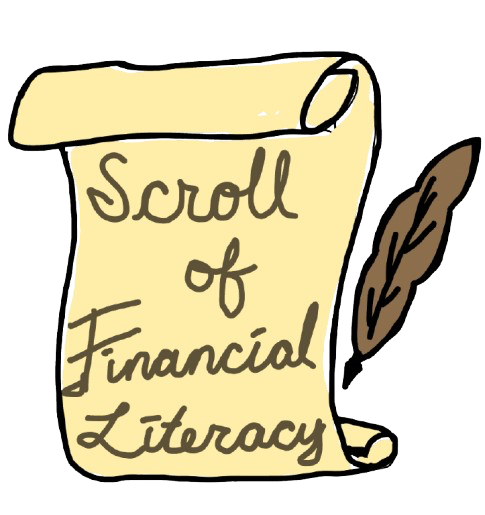
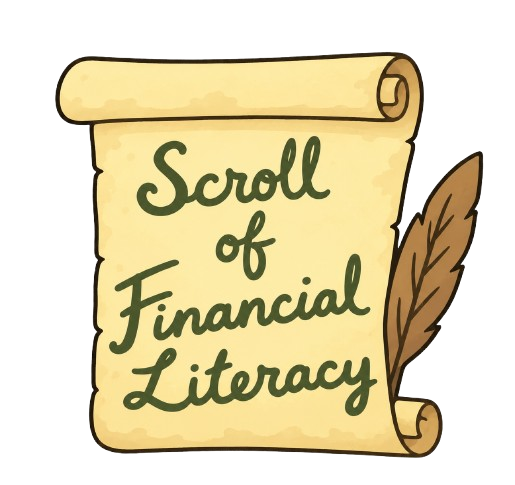
added more buttons and opening modals

diff --git a/src/LandingPage.tsx b/src/LandingPage.tsx
@@ -11,6 +11,18 @@ function LandingPage() {
      const navigate = useNavigate();
      const [isScrollHovered, setIsScrollHovered] = useState(false);
      const [isScrollOpen, setIsScrollOpen] = useState(false);
+     const [isButtonOneOpen, setIsButtonOneOpen] = useState(false);
+     const [isButtonTwoOpen, setIsButtonTwoOpen] = useState(false);
+     const [modalOrigin, setModalOrigin] = useState({ x: '50%', y: '50%' });
+
+     const openFromButton = (event: React.MouseEvent<HTMLButtonElement>, openModal: () => void) => {
+          const rect = event.currentTarget.getBoundingClientRect();
+          const x = ((rect.left + rect.width / 2) / window.innerWidth) * 100;
+          const y = ((rect.top + rect.height / 2) / window.innerHeight) * 100;
+          setModalOrigin({ x: `${x}%`, y: `${y}%` });
+          openModal();
+     };
+
      return(
           <>
                {/* <div className="nav-bar">
@@ -47,7 +59,7 @@ function LandingPage() {
 
                          <button
                               type="button"
-                              onClick={() => setIsScrollOpen(true)}
+                              onClick={(event) => openFromButton(event, () => setIsScrollOpen(true))}
                               onMouseEnter={() => setIsScrollHovered(true)}
                               onMouseLeave={() => setIsScrollHovered(false)}
                          >
@@ -68,6 +80,10 @@ function LandingPage() {
                          >
                               <section
                                    className="scroll-modal"
+                                   style={{
+                                        ['--modal-origin-x' as any]: modalOrigin.x,
+                                        ['--modal-origin-y' as any]: modalOrigin.y,
+                                   }}
                                    role="dialog"
                                    aria-modal="true"
                                    aria-labelledby="scroll-modal-title"
@@ -83,6 +99,77 @@ function LandingPage() {
                                    </button>
                                    <h2 id="scroll-modal-title">Financial Literacy</h2>
                                    <p>Build the knowledge to make confident money decisions.</p>
+                              </section>
+                         </div>
+                    )}
+
+                    <div className="button-stack">
+                         <button className="big-btn" onClick={(event) => openFromButton(event, () => setIsButtonOneOpen(true))}>
+                              Button One
+                         </button>
+                         <button className="big-btn" onClick={(event) => openFromButton(event, () => setIsButtonTwoOpen(true))}>
+                              Button Two
+                         </button>
+                    </div>
+
+                    {isButtonOneOpen && (
+                         <div
+                              className="scroll-modal-backdrop"
+                              role="presentation"
+                              onClick={() => setIsButtonOneOpen(false)}
+                         >
+                              <section
+                                   className="scroll-modal"
+                                   style={{
+                                        ['--modal-origin-x' as any]: modalOrigin.x,
+                                        ['--modal-origin-y' as any]: modalOrigin.y,
+                                   }}
+                                   role="dialog"
+                                   aria-modal="true"
+                                   aria-labelledby="button-one-modal-title"
+                                   onClick={(event) => event.stopPropagation()}
+                              >
+                                   <button
+                                        className="scroll-modal-close"
+                                        type="button"
+                                        aria-label="Close button one window"
+                                        onClick={() => setIsButtonOneOpen(false)}
+                                   >
+                                        <span aria-hidden="true">&#215;</span>
+                                   </button>
+                                   <h2 id="button-one-modal-title">Button One</h2>
+                                   <p>Explore your next financial move with confidence.</p>
+                              </section>
+                         </div>
+                    )}
+
+                    {isButtonTwoOpen && (
+                         <div
+                              className="scroll-modal-backdrop"
+                              role="presentation"
+                              onClick={() => setIsButtonTwoOpen(false)}
+                         >
+                              <section
+                                   className="scroll-modal"
+                                   style={{
+                                        ['--modal-origin-x' as any]: modalOrigin.x,
+                                        ['--modal-origin-y' as any]: modalOrigin.y,
+                                   }}
+                                   role="dialog"
+                                   aria-modal="true"
+                                   aria-labelledby="button-two-modal-title"
+                                   onClick={(event) => event.stopPropagation()}
+                              >
+                                   <button
+                                        className="scroll-modal-close"
+                                        type="button"
+                                        aria-label="Close button two window"
+                                        onClick={() => setIsButtonTwoOpen(false)}
+                                   >
+                                        <span aria-hidden="true">&#215;</span>
+                                   </button>
+                                   <h2 id="button-two-modal-title">Button Two</h2>
+                                   <p>See your goals, habits, and plans in one place.</p>
                               </section>
                          </div>
                     )}

diff --git a/src/LandingPage.css b/src/LandingPage.css
@@ -12,21 +12,25 @@
   padding: 0;
   border: 0;
   background: transparent;
-  cursor: pointer;
-  animation: scroll-float 2.4s ease-in-out infinite;
+  cursor: pointer;  animation: scroll-float 2.4s ease-in-out infinite;
 }
 
-#scroll-gp-group button img,
-#scroll-gp-group > img {
+/* targets the image on the button */
+#scroll-gp-group button img {
   display: block;
   width: 100%;
   height: auto;
 }
+#scroll-gp-group button:hover img {
+  transform: scale(1.08);
+}
 
 #scroll-gp-group > img {
+  display: block;
   width: clamp(30px, 24vh, 165px);
+  height: auto;
   position: relative;
-  top: -36px;
+  top: -24px;
 }
 
 #scroll-gp-group .grandpa-shaking {
@@ -71,6 +75,8 @@
 }
 
 .scroll-modal {
+  --modal-origin-x: 50%;
+  --modal-origin-y: 50%;
   position: relative;
   width: min(96%, 1400px);
   height: min(92%, 900px);
@@ -82,7 +88,7 @@
   background: #fdf2d0;
   color: #30283a;
   box-shadow: 0 24px 70px rgba(31, 18, 45, 0.35);
-  transform-origin: bottom left;
+  transform-origin: var(--modal-origin-x) var(--modal-origin-y);
   animation: scroll-modal-pop 0.4s cubic-bezier(0.22, 1, 0.36, 1) both;
 }
 
@@ -122,11 +128,11 @@
 @keyframes scroll-modal-pop {
   from {
     opacity: 0;
-    transform: translate(-12%, 18%) scale(0.15);
+    transform: scale(0.15);
   }
   to {
     opacity: 1;
-    transform: translate(0, 0) scale(1);
+    transform: scale(1);
   }
 }
 
@@ -134,4 +140,39 @@
   .scroll-modal {
     animation: none;
   }
+}
+
+.button-stack {
+  position: fixed;
+  top: 50%;
+  right: 5%;
+  transform: translateY(-50%);
+  display: flex;
+  flex-direction: column;
+  align-items: center;
+  gap: clamp(10px, 2vw, 20px);
+  padding: clamp(20px, 4vw, 40px);
+}
+
+
+.big-btn {
+  width: clamp(150px, 24vw, 600px);
+  height: clamp(45px, 8vw, 1000px);
+  font-size: clamp(14px, 1.5vw, 20px);
+  font-weight: 600;
+  color: #fff;
+  background: #aee17f;
+  border: none;
+  border-radius: 16px;
+  cursor: pointer;
+  transition: transform, box-shadow 0.25s ease;
+}
+
+.big-btn:hover {
+  transform: scale(1.08);
+  box-shadow: 0 8px 20px rgba(0, 0, 0, 0.2);
+}
+
+.big-btn:active {
+  transform: scale(1.02);
 }
